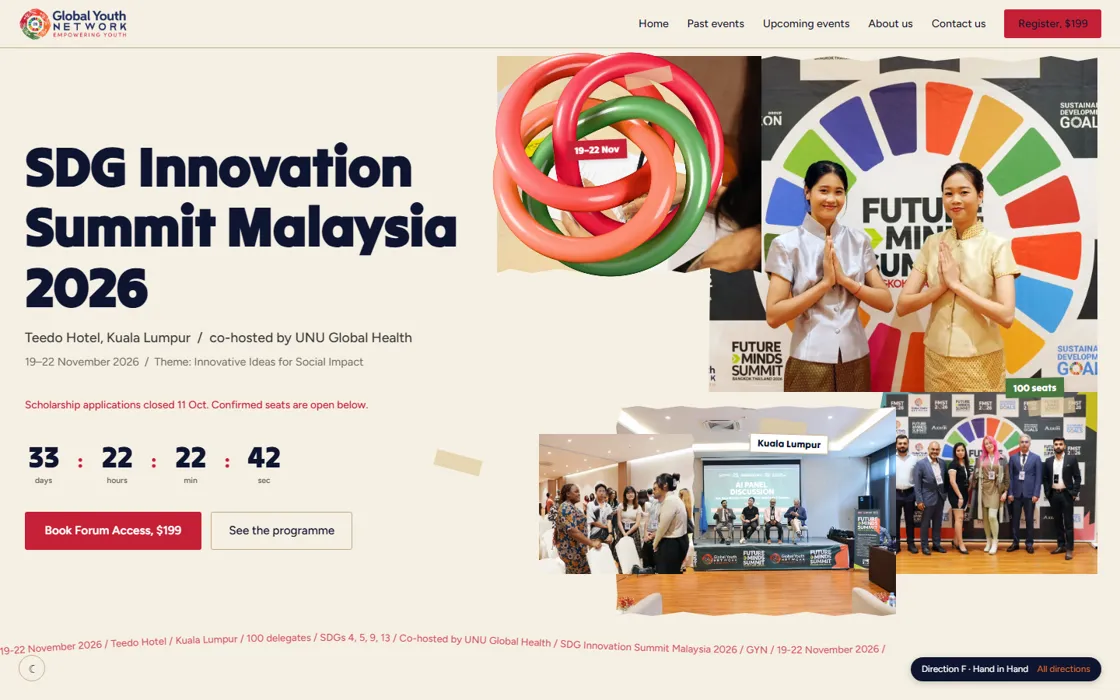
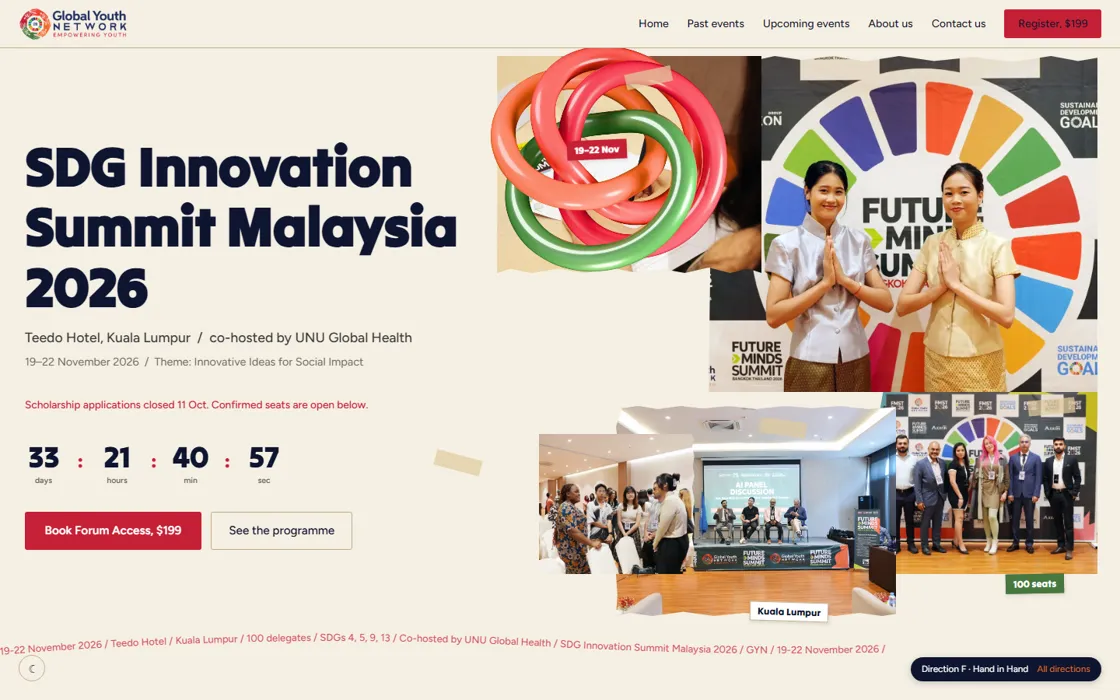
fix(concepts): G hero keeps faces clear, countdown on one line, refreshed thumbnails

diff --git a/concepts/g-deep-field.html b/concepts/g-deep-field.html
@@ -179,6 +179,7 @@
     .hero-sub { font-size: clamp(.875rem,1.4vw,1.0625rem); color: rgba(255,255,255,1); line-height: 1.65; margin-bottom: 2rem; }
 
     .countdown { display: flex; gap: 1rem; align-items: flex-start; margin-bottom: 2.5rem; flex-wrap: wrap; }
+    @media (min-width: 520px) { .countdown { flex-wrap: nowrap; } }
     .cd-unit { display: flex; flex-direction: column; align-items: center; gap: .25rem; min-width: 0; }
     .cd-num {
       font-family: var(--fd); font-size: clamp(2.25rem,4.5vw,3.75rem); line-height: 1;
@@ -194,10 +195,11 @@
     .hero-content { min-width: 0; }
     .hero-visual { display: flex; align-items: center; justify-content: center; min-width: 0; }
     .globe-wrap { position: relative; width: min(100%,500px); aspect-ratio: 1; z-index: 0; }
-    .globe-poster, .globe-video { width: 100%; height: 100%; object-fit: contain; position: relative; z-index: 1; }
+    /* globe overlaps the photo's bottom-right corner so the delegates' faces stay visible */
+    .globe-poster, .globe-video { position: absolute; right: -8%; bottom: -8%; width: 60%; height: 60%; object-fit: contain; z-index: 1; }
     .globe-video { display: none; }
     /* real summit photo sits behind the globe render */
-    .hero-real-photo { position: absolute; inset: 0; z-index: -1; overflow: hidden; margin: 0; }
+    .hero-real-photo { position: absolute; left: 0; top: 0; width: 80%; height: 80%; z-index: 0; overflow: hidden; margin: 0; }
     .hero-real-photo img { width: 100%; height: 100%; object-fit: cover; }
     .hero-real-photo figcaption {
       position: absolute; bottom: 0; left: 0; right: 0;
@@ -566,8 +568,8 @@
   <div class="wrap hero-body">
 
     <div class="hero-content">
-      <p class="hero-meta">19–22 November 2026 / Teedo Hotel, Kuala Lumpur / Co-hosted by UNU Global Health</p>
       <h1 id="hero-title" class="d1 hero-title">SDG INNOVATION SUMMIT MALAYSIA 2026</h1>
+      <p class="hero-meta">19–22 November 2026 / Teedo Hotel, Kuala Lumpur / Co-hosted by UNU Global Health</p>
       <p class="hero-sub">Join 100 young leaders, innovators, students and professionals from across the globe in Kuala Lumpur. Focused on SDGs 4, 5, 9 and 13.</p>
 
       <div class="countdown" id="countdown" role="timer" aria-label="Time until summit opens on 19 November 2026">
